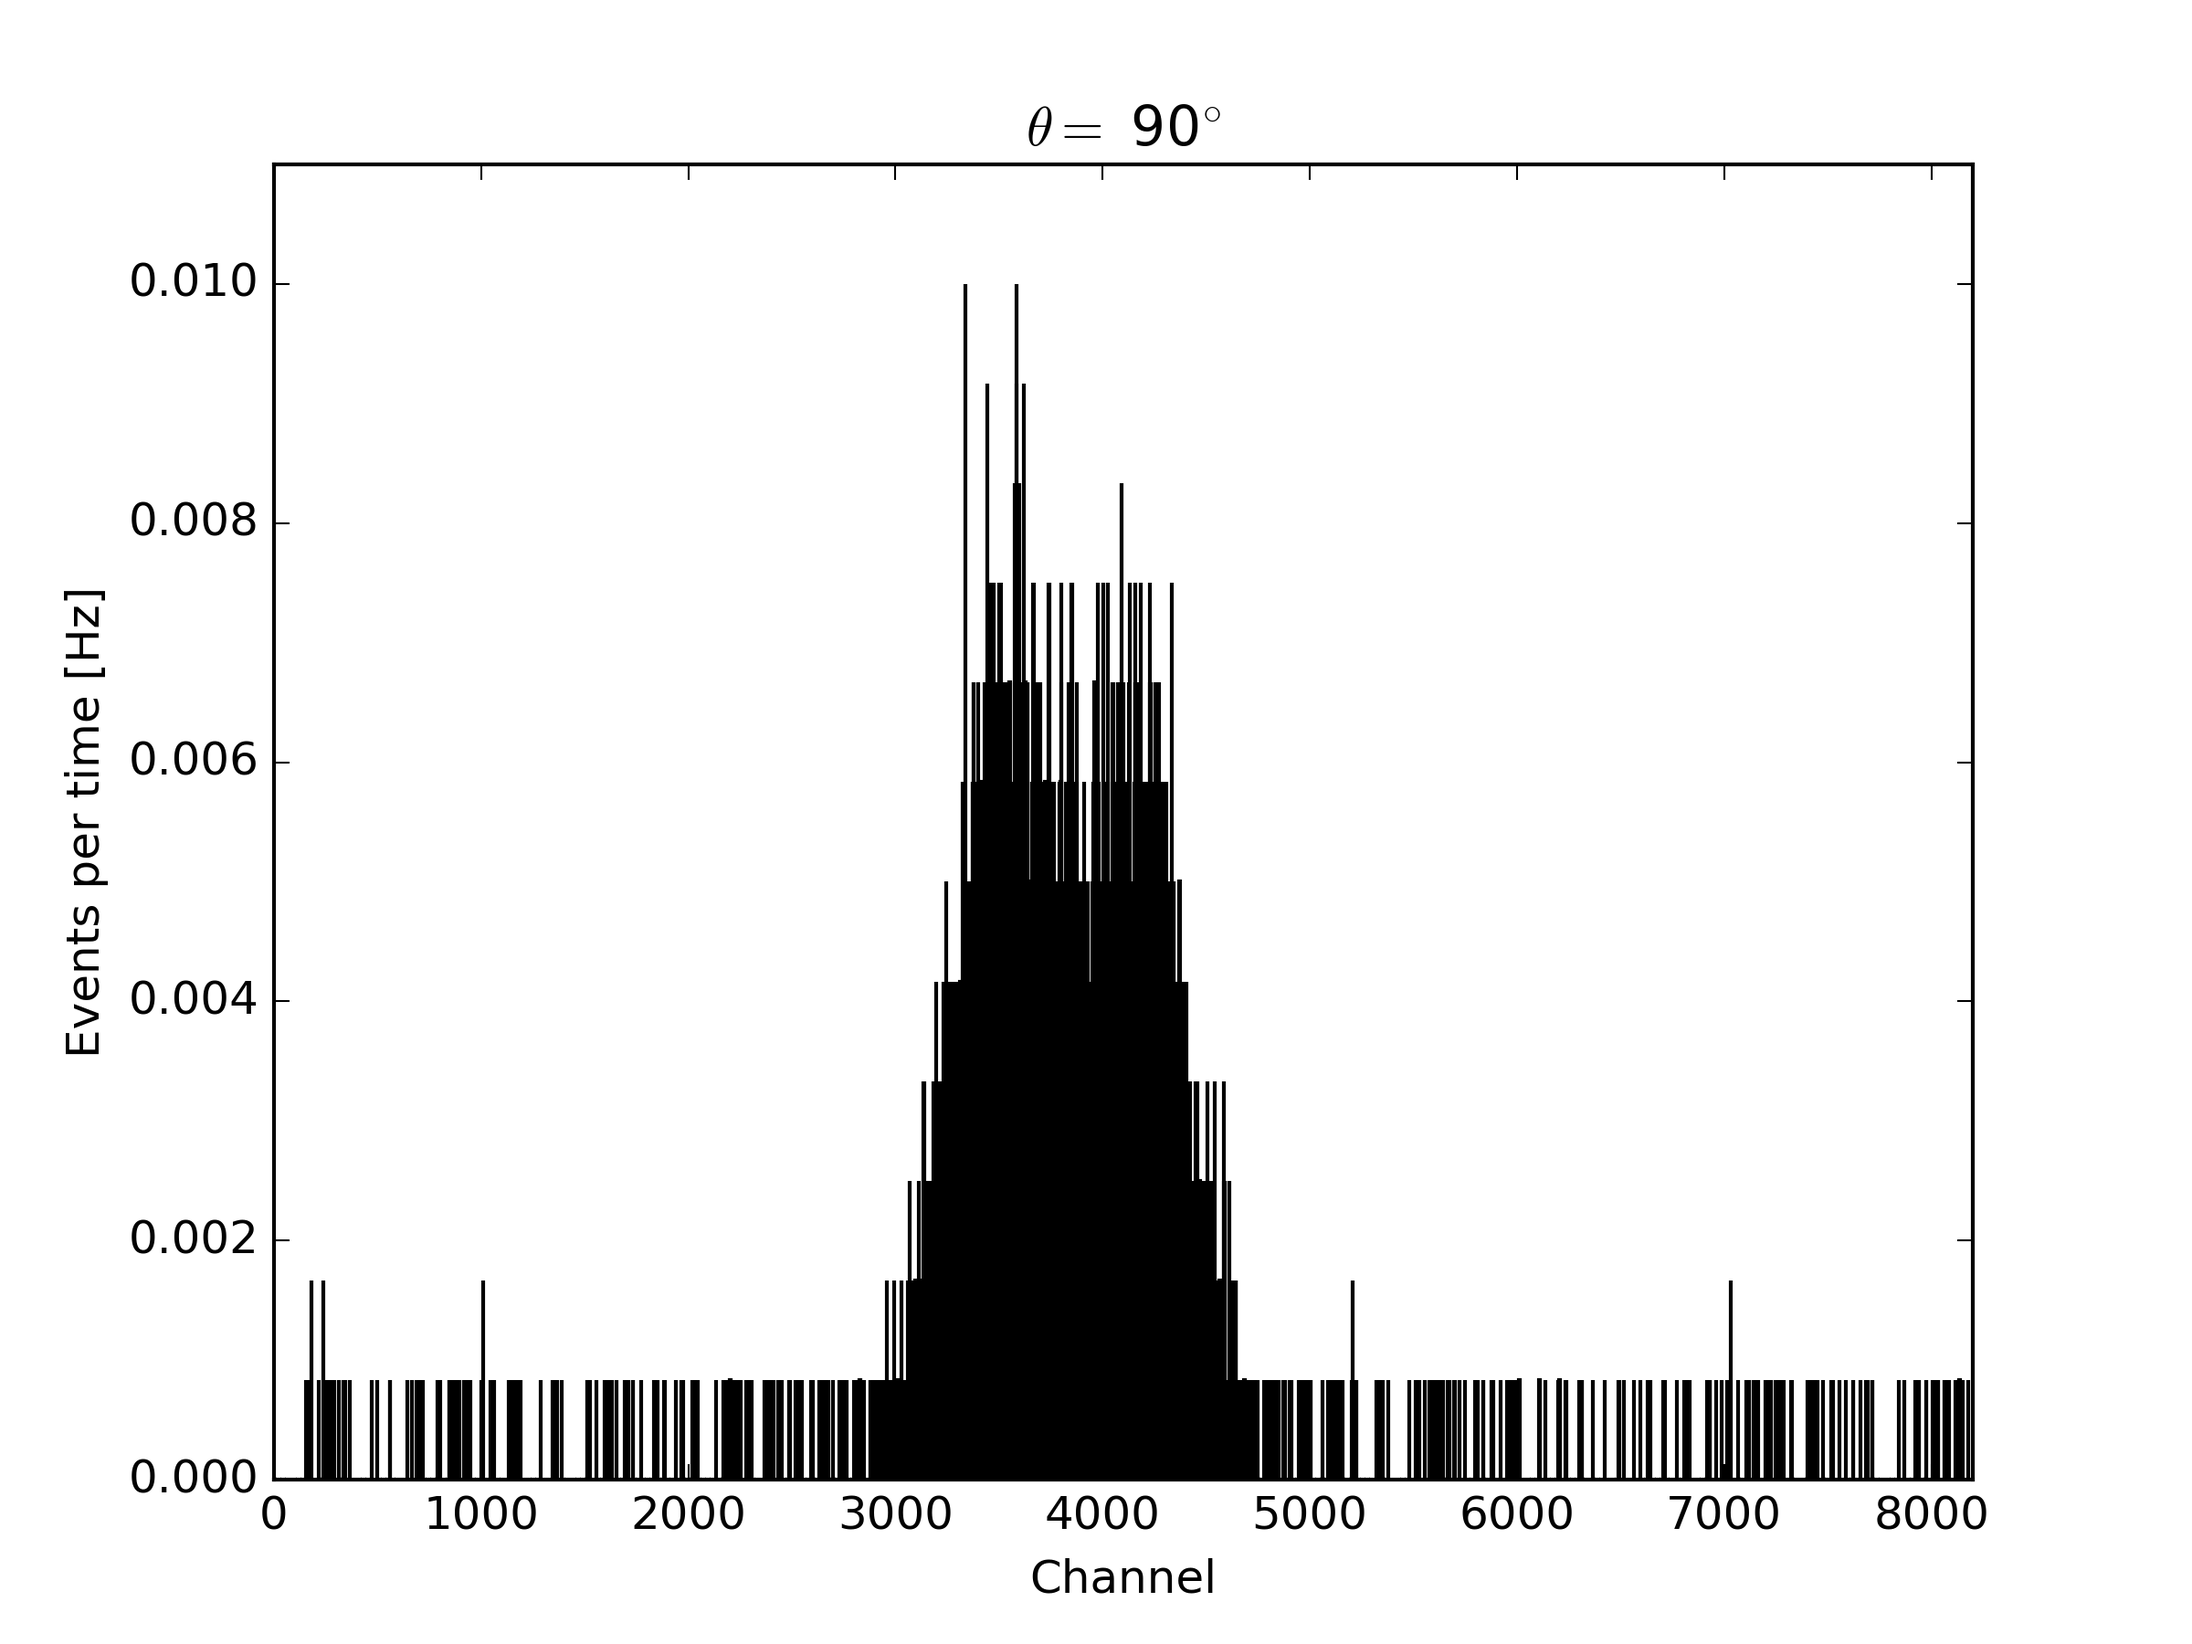
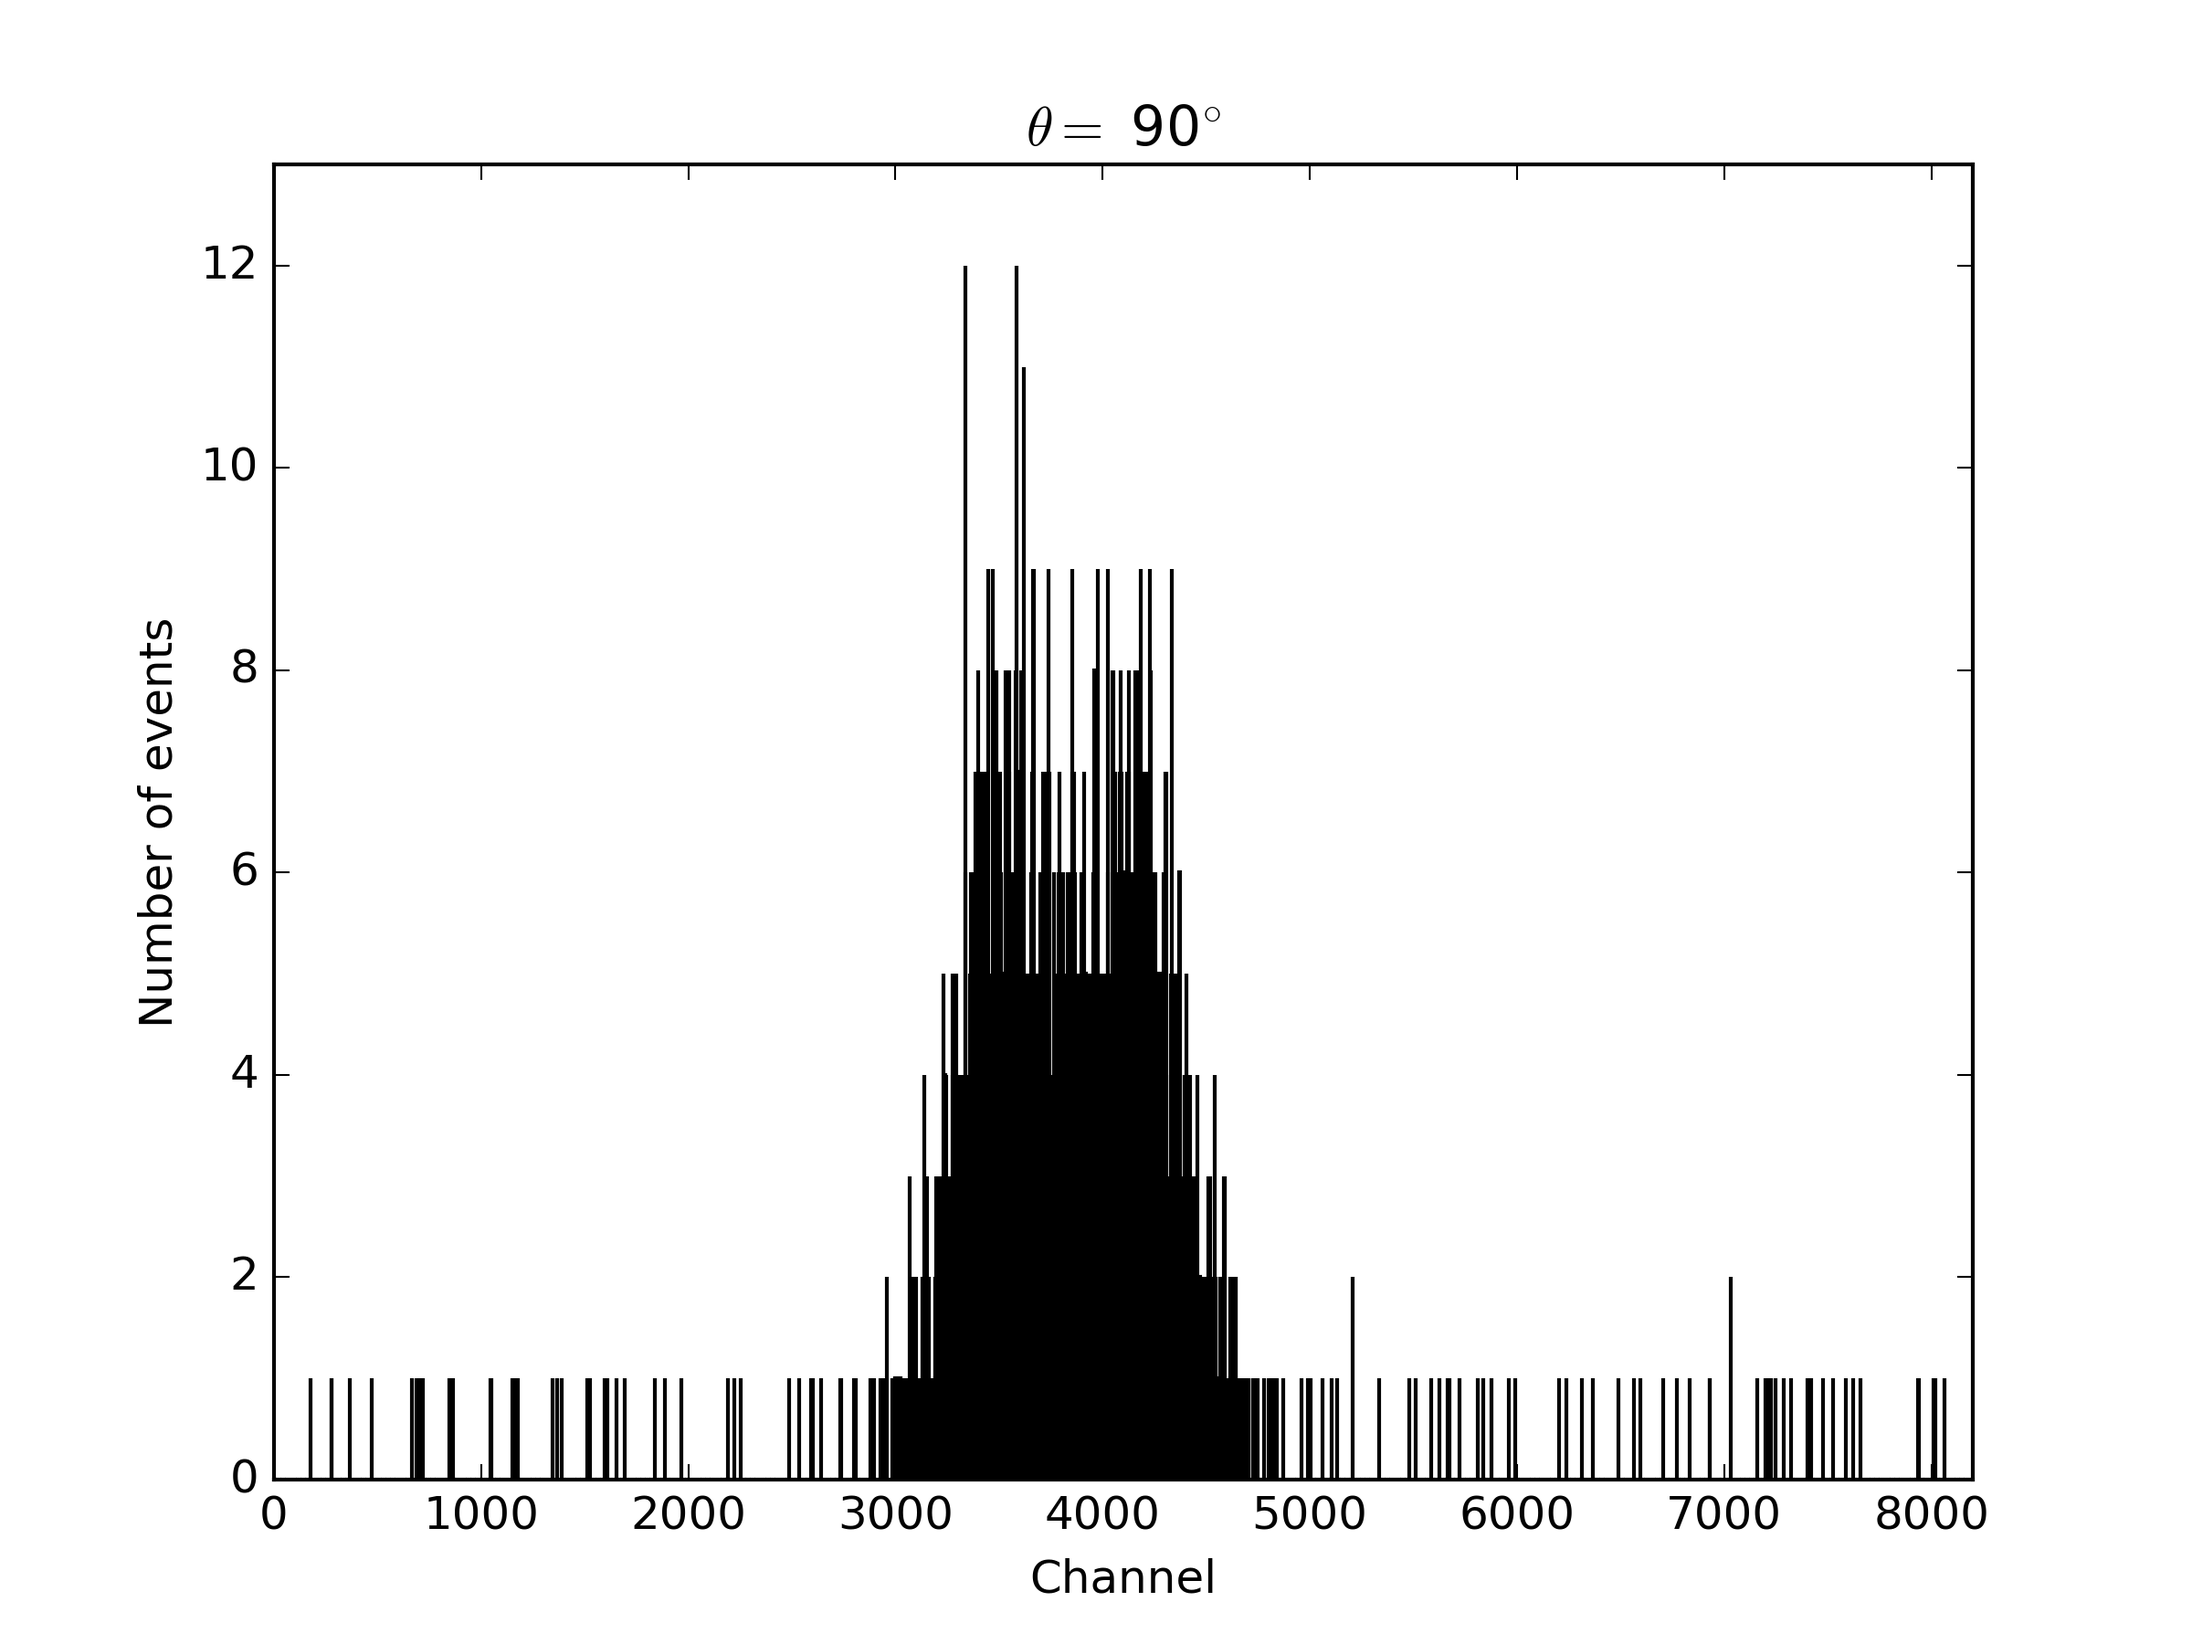
Add files via upload

diff --git a/calculate.py b/calculate.py
@@ -119,15 +119,18 @@ paramm = [1,0.1,0.01]       # Parameters for Model Fit
 
 """
 # Plot Raw Histogram for angle k
-k = 8
-plt.bar(channelaxis[1:],val[k]/1200.,width=0.15)
-plt.title(r'$\theta =$ %i$^{\circ}$' %ang[k])
-plt.xlim(0,8200)
-plt.ylim(0,0.011)
-plt.xlabel('ADC Channels')
-plt.ylabel(r'Events per second')
-#plt.savefig('180degraw.png')
-plt.show()
+for k in range(9):
+    plt.bar(channelaxis[1:],val[k],width=0.15)
+    plt.title(r'$\theta =$ %i$^{\circ}$' %ang[k])
+    plt.xlim(0,8200)
+    plt.ylim(0,13)
+    plt.xlabel('Channel')
+    plt.ylabel(r'Number of events')
+    plt.savefig(str(ang[k])+'degraw.png',dpi=300)
+    #plt.show()
+    plt.clf()
+    plt.cla()
+    plt.close()
 """
 
 
@@ -165,19 +168,23 @@ for k in range(9):
         #plt.plot([mu-n*sigma]*2,[0,np.amax(y[k])+0.02],'y')
         #plt.plot([mu+n*sigma]*2,[0,np.amax(y[k])+0.02],'y')
     #plt.xlabel('Time delay [ns]')
-    #plt.ylabel(r'Events per time [Hz]')
+    #plt.ylabel(r'Event rate [Hz]')
     #plt.xlim(mu-4*sigma,mu+4*sigma)
     #plt.ylim(0,0.1)
     #plt.legend()
     #plt.savefig(str(ang[k])+'deg.png',dpi=300)
     #plt.show()
+    #plt.clf()
+    #plt.cla()
+    #plt.close()
 
 
 
 # Print Number of Events in Hertz, Background
-print(nevents)
-print(scaler)
-print(bgtot)
+#print(nevents)
+#print(scaler)
+#print(uncerts)
+#print(bgtot)
 
 
 
@@ -186,6 +193,12 @@ ratenorm = nevents/nevents[2]
 uncertnorm = uncerts/nevents[2]
 bgnorm = bgtot/nevents[2]
 scalernorm = scaler/nevents[2]
+scalernorm2 = scaler/scaler[2]
+scaleruncert = []
+for k in scaler:
+    scaleruncert.append(np.sqrt(k))
+scaleruncert = scaleruncert/np.sqrt(1200.)
+scaleruncertnorm = scaleruncert/scaler[2]
 #print(bgnorm)
 
 
@@ -201,12 +214,12 @@ print('a2 = %.3f +/- %.3f' %(popt[2],perr[2]))
 
 
 # Plot Data with Fit and Model
-curve = model(np.arange(55,186,1),*popt)
+curve = model(np.arange(55,186,1),a0,a1,-a2)
 curvemin = model(np.arange(55,186,1),*(popt-perr))
 curvemax = model(np.arange(55,186,1),*(popt+perr))
 theo = model(np.arange(55,186,1),1.,1/8.,1/24.)
 plt.errorbar(ang,ratenorm,yerr=uncertnorm,fmt='go',label='Data')
-#plt.plot(ang,scalernorm,'ko',label='Scaler')
+#plt.errorbar(ang,scalernorm2,yerr=scaleruncertnorm,fmt='ko',label='Scaler')
 plt.plot(np.arange(55,186,1),curve,'b',label='Fit')
 #plt.plot(np.arange(55,186,1),curvemin,'c--',label='Min')
 #plt.plot(np.arange(55,186,1),curvemax,'c--',label='Max')
@@ -216,7 +229,8 @@ plt.title('Normalized Angular Correlation Function')
 plt.xlabel(r'$\theta$ [$^{\circ}$]')
 plt.ylabel(r'$W(\theta)$')
 legend = plt.legend(loc='upper left')
-#plt.show()
-plt.savefig('dist.png',dpi=300)
+plt.show()
+#plt.savefig('a2flipped.png',dpi=300)
+
 
 
